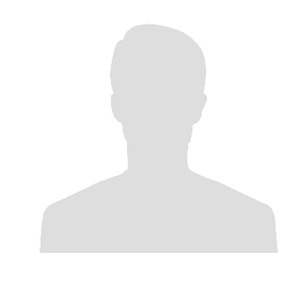
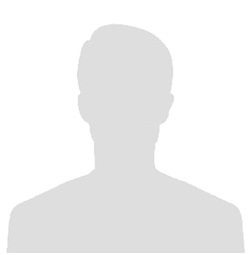
players' img size and offset modified

Changed region(s): [[0.028, 0.4667, 0.98, 1.0], [0.14, 0.0824, 0.476, 0.7686], [0.476, 0.0824, 0.728, 0.3843]]

diff --git a/src/Components/TeamBuilder/CroppedAvatar.tsx b/src/Components/TeamBuilder/CroppedAvatar.tsx
@@ -9,6 +9,7 @@ interface CroppedAvatarProps {
   offsetY?: number;
   borderRadius?: string;
   selected?: boolean;
+  scale?: number; // 추가: 이미지 크기 조정 비율
 }
 
 const fallbackSrc = "/img/avatar.jpg";
@@ -17,10 +18,11 @@ const CroppedAvatar: React.FC<CroppedAvatarProps> = ({
   src,
   width = 80,
   height = 80,
-  offsetX = 30,
+  offsetX = 4,
   offsetY = 0,
   borderRadius = "8px",
   selected = false,
+  scale = 1.1, // default scaling
 }) => {
   const [isLoaded, setIsLoaded] = useState(false);
   const [finalSrc, setFinalSrc] = useState<string>("");
@@ -76,8 +78,8 @@ const CroppedAvatar: React.FC<CroppedAvatarProps> = ({
             position: "absolute",
             top: `-${offsetY}px`,
             left: `-${offsetX}px`,
-            width: width * 1.5,
-            height: height * 1.5,
+            width: width * scale,
+            height: height * scale,
             objectFit: "cover",
           }}
         />

diff --git a/src/Components/Players/PlayerSpec.tsx b/src/Components/Players/PlayerSpec.tsx
@@ -110,8 +110,9 @@ const PlayerSpec: React.FC = () => {
               src={player.img}
               width={200}
               height={200}
-              offsetX={70}
-              offsetY={5}
+              offsetX={20}
+              offsetY={10}
+              scale={1.2}
             />
             <div className="player-name-row">{player.name}</div>
           </div>
